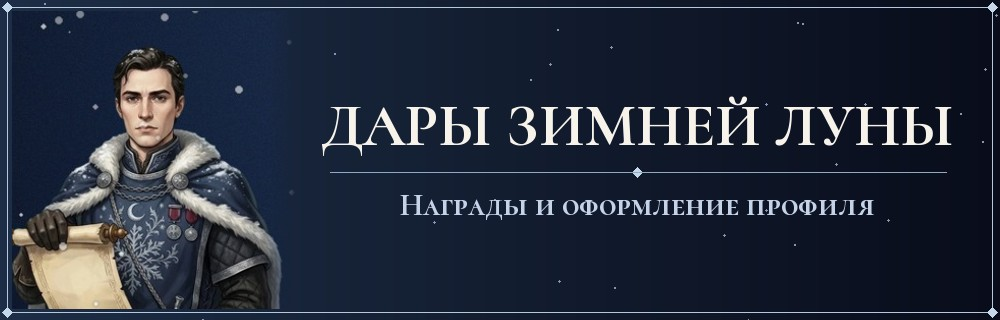
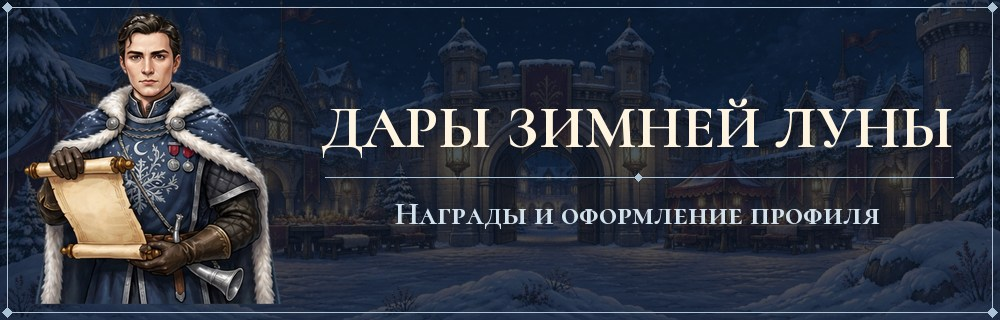
Грамота глашатая, зимние портреты и подарки Тайного Санты

diff --git a/sd/winter.py b/sd/winter.py
@@ -37,6 +37,8 @@ ACTIONS = {
     "bare": ("Снять рамку", "◯", "frame"),
     "archive": ("Летопись", "📜", "ball"),
 }
+for keepsake,(label,icon,_) in w.SANTA.items():
+    BUTTONS["wb:wrap_"+keepsake]=(label,"🎁",icon,_B)
 for action, (label, emoji, icon) in ACTIONS.items():
     BUTTONS["wb:" + action] = (
         label,
@@ -76,6 +78,7 @@ PAGES = {
     "strike": "raid",
     "counter": "raid",
     "offer": "santa",
+    **{"wrap_"+key:"santa" for key in w.SANTA},
     "buy": "shop",
     "pairday": "pair",
     "claim": "gifts",
@@ -98,6 +101,14 @@ async def show(inter, key="ball"):
     g, u = inter.guild_id, inter.user.id
     if g is None:
         return await reply(inter, "Бал проходит на сервере.", nav=False, key=None)
+    if day < w.START:
+        invitation=discord.Embed(description=(
+            "**Глашатай разворачивает грамоту с печатью Принцессы.**\n"
+            "«Знатных господ и добрых гостей зовём на Бал зимней луны. В полночь караул отворит врата: "
+            "на площади начнётся снежная осада, а в зале зажгут огни и развернут ярмарку даров».\n\n"
+            "**Открытие — 15 декабря в 00:00 по Москве.**"),color=0xC8AB71)
+        return await reply(inter,embed=invitation,image=("invitation.jpg",str(ART/"invitation.jpg")),
+                           rows=[["menu"]],nav=False,key=None)
     key, _, stamp = key.partition("@")
     if key in ("raid","strike","counter") and idx is not None:
         key = "siege"
@@ -117,6 +128,8 @@ async def show(inter, key="ball"):
             )
         )[0]
         gift = await w.rows(db, "SELECT recipient FROM winter26_gifts WHERE g=? AND u=?", (g, u))
+        wrapped = await w.first(db,"SELECT keepsake FROM winter26_parcels WHERE g=? AND u=?",(g,u),"")
+        received = await w.first(db,"SELECT item FROM snow_items WHERE g=? AND u=? AND item IN ('santa_rose','santa_chime','santa_book')",(g,u),"")
         mar = await w.rows(db, "SELECT a,b,since FROM marriages WHERE guild_id=? AND (a=? OR b=?)", (g, u, u))
         pairdays = await w.pair_days(db, g, *mar[0]) if mar else 0
         played = await w.first(
@@ -177,21 +190,21 @@ async def show(inter, key="ball"):
             if idx is not None:
                 actions[0].insert(0, "raid")
     elif page == "santa":
-        lines = [
-            "До 1 января оставь под ёлкой **500 монет и 50 снежинок**. Каждый даритель получит такой же подарок от случайного другого участника. Если участник один, всё вернётся на его счёт.",
-            f"Твои снежинки · **{flakes}**",
-        ]
-        if gift:
-            receiver = gift[0][0]
-            lines.append(
-                "🎁 Подарок под ёлкой."
-                if receiver is None
-                else "🎁 Твой взнос вернулся на счёт."
-                if receiver == u
-                else "🎁 Обмен завершён. Монеты и снежинки зачислены."
-            )
-        if idx is not None and day < w.REVEAL and not gift:
-            actions = [["offer"]]
+        if day < w.REVEAL:
+            lines = ["Выбери, что подарить незнакомцу при дворе. Камеристка вложит в посылку пожелание и скроет имя дарителя.",
+                     "1 января каждый даритель получит выбранный для него коллекционный значок. Его можно выставить в профиле. Участие бесплатное."]
+            for item,(name,_,wish) in w.SANTA.items():
+                lines.append(f"**{name}** — «{wish}»")
+            if gift:
+                lines.append(f"Под ёлкой лежит **{w.SANTA.get(wrapped,w.SANTA['book'])[0]}**. До полуночи 1 января выбор можно изменить.")
+            actions=[["wb:wrap_"+item for item in w.SANTA]]
+        elif received:
+            name,_,wish=w.SANTA[received.removeprefix("santa_")]
+            lines=["**Тебе пришла посылка от "+("Принцессы" if gift and gift[0][0]==u else "Тайного Санты")+"!**",
+                   f"Внутри — **{name}**. В записке написано: «{wish}»", "Значок уже в коллекции. Выбери его на витрине профиля."]
+            actions=[["showcase"]]
+        else:
+            lines=["Камеристка вручила новогодние посылки. Запись на обмен закончилась 1 января."]
     elif page == "game":
         if idx is None:
             lines = ["Дух Метели принимает гостей с 15 декабря по 10 января."]

diff --git a/sd/winter_state.py b/sd/winter_state.py
@@ -46,7 +46,13 @@ CREATE TABLE IF NOT EXISTS winter26_gifts (g INTEGER,u INTEGER,recipient INTEGER
 """
 
 
+SANTA = {
+    "rose": ("Роза под снегом", "rose", "Пусть даже в стужу рядом будет тот, кто согреет."),
+    "chime": ("Бубенец бала", "quest_reminder", "Пусть новый год принесёт вести, от которых хочется танцевать."),
+    "book": ("Книга пожеланий", "quest_book", "Пусть самая смелая мечта найдёт место в твоей летописи."),
+}
 SCHEMA += """
+CREATE TABLE IF NOT EXISTS winter26_parcels (g INTEGER,u INTEGER,keepsake TEXT NOT NULL,prepaid INTEGER NOT NULL,PRIMARY KEY(g,u));
 CREATE TABLE IF NOT EXISTS snow_baskets(g INTEGER,u INTEGER,day TEXT,used INTEGER DEFAULT 0,last_target INTEGER DEFAULT -1,PRIMARY KEY(g,u,day));
 CREATE TABLE IF NOT EXISTS snow_forts(g INTEGER,boss INTEGER,hits INTEGER DEFAULT 0,shooter INTEGER DEFAULT 0,mirrors INTEGER DEFAULT 0,volley INTEGER DEFAULT 0,PRIMARY KEY(g,boss));
 CREATE TABLE IF NOT EXISTS snow_items(g INTEGER,u INTEGER,item TEXT,PRIMARY KEY(g,u,item));
@@ -139,8 +145,15 @@ async def settle(db, g, day):
     for i, sender in enumerate(entrants):
         receiver = entrants[(i + 1) % len(entrants)]
         await db.execute("UPDATE winter26_gifts SET recipient=? WHERE g=? AND u=?", (receiver, g, sender))
-        await coin(db, g, receiver, 500, "Тайный Санта" if sender != receiver else "Возврат подарка")
-        await db.execute("UPDATE winter26_players SET flakes=flakes+50 WHERE g=? AND u=?", (g, receiver))
+        parcel = await rows(db, "SELECT keepsake,prepaid FROM winter26_parcels WHERE g=? AND u=?", (g,sender))
+        keepsake,prepaid = parcel[0] if parcel else ("book",1)
+        if prepaid:
+            await coin(db,g,sender,500,"Возврат прежнего взноса Тайного Санты")
+            await db.execute("UPDATE winter26_players SET flakes=flakes+50 WHERE g=? AND u=?", (g,sender))
+        # При единственном госте подарок выбирает Принцесса.
+        if sender == receiver:
+            keepsake = SystemRandom().choice([key for key in SANTA if key!=keepsake])
+        await db.execute("INSERT OR IGNORE INTO snow_items VALUES(?,?,?)",(g,receiver,"santa_"+keepsake))
 
 
 async def deliver_gifts():
@@ -187,24 +200,15 @@ async def act(db, g, u, key, day):
         reward = 20 if correct else 5
         await db.execute("UPDATE winter26_players SET flakes=flakes+? WHERE g=? AND u=?", (reward, g, u))
         return ("Верно!" if correct else "Дух Метели дарит утешительный приз.") + f" +{reward} снежинок."
-    if key == "offer":
-        if day >= REVEAL:
-            return "Подарки уже открыты."
-        if await first(db, "SELECT 1 FROM winter26_gifts WHERE g=? AND u=?", (g, u)):
-            return "Твой подарок уже под ёлкой."
-        await bot.ensure_user(db, g, u)
-        enough = await first(
-            db,
-            "SELECT 1 FROM users JOIN winter26_players ON guild_id=g AND user_id=u "
-            "WHERE g=? AND u=? AND balance>=500 AND flakes>=50",
-            (g, u),
-        )
-        if not enough:
-            return "Для подарка нужно 500 монет и 50 снежинок."
-        await coin(db, g, u, -500, "Подарок под ёлку")
-        await db.execute("UPDATE winter26_players SET flakes=flakes-50 WHERE g=? AND u=?", (g, u))
-        await db.execute("INSERT INTO winter26_gifts(g,u) VALUES(?,?)", (g, u))
-        return "Камеристка спрятала твой подарок под ёлкой."
+    if key.startswith("wrap_") and key[5:] in SANTA:
+        if not START <= day < REVEAL:
+            return "Камеристка принимает посылки с 15 по 31 декабря."
+        item=key[5:]
+        existing=await first(db,"SELECT 1 FROM winter26_gifts WHERE g=? AND u=?",(g,u))
+        await db.execute("INSERT OR IGNORE INTO winter26_gifts(g,u) VALUES(?,?)",(g,u))
+        await db.execute("INSERT INTO winter26_parcels VALUES(?,?,?,?) ON CONFLICT(g,u) DO UPDATE SET keepsake=excluded.keepsake",
+                         (g,u,item,existing))
+        return f"Камеристка запечатала подарок «{SANTA[item][0]}»."
     if key == "pairday":
         mar = await rows(db, "SELECT a,b,since FROM marriages WHERE guild_id=? AND (a=? OR b=?)", (g, u, u))
         if not mar:

diff --git a/tests/test_winter.py b/tests/test_winter.py
@@ -74,7 +74,11 @@ class WinterBallTests(IsolatedAsyncioTestCase):
                 await self.db.execute("INSERT INTO users(guild_id,user_id,balance) VALUES(?,?,800)", (g, u))
                 await self.db.execute("UPDATE winter26_players SET flakes=50 WHERE g=? AND u=?", (g, u))
                 await self.db.commit()
-                await asyncio.gather(self.act(u, "offer", w.START, g), self.act(u, "offer", w.START, g))
+                # A deposit recorded by the release preceding free keepsake exchange.
+                await self.db.execute("UPDATE users SET balance=balance-500 WHERE guild_id=? AND user_id=?",(g,u))
+                await self.db.execute("UPDATE winter26_players SET flakes=0 WHERE g=? AND u=?",(g,u))
+                await self.db.execute("INSERT INTO winter26_gifts(g,u) VALUES(?,?)",(g,u))
+                await self.db.commit()
         with patch.object(w, "today", return_value=w.REVEAL):
             await asyncio.gather(w.deliver_gifts(), w.deliver_gifts())
         matches = await w.rows(self.db, "SELECT g,u,recipient FROM winter26_gifts", ())
@@ -226,3 +230,25 @@ class WinterBallTests(IsolatedAsyncioTestCase):
             result = await snow.duel(db, 1, 22, latest=True)
             self.assertEqual((result[3], result[7], result[8]), ("done", 3, 0))
             self.assertIsNone(await snow.duel(db, 1, 11))
+
+    async def test_free_secret_santa_and_sealed_invitation(self):
+        from unittest.mock import AsyncMock
+        inter=SimpleNamespace(guild_id=1,user=SimpleNamespace(id=12))
+        with patch.object(w,"today",return_value=w.START-timedelta(days=1)), patch.object(winter,"reply",new_callable=AsyncMock) as send:
+            for key in ("ball","store","pack","wrap_book","aim0@old","unwrap"):
+                await winter.show(inter,key)
+                self.assertEqual(send.await_args.kwargs["rows"],[["menu"]])
+            self.assertEqual(await w.first(self.db,"SELECT count(*) FROM winter26_players",()),0)
+        await self.act(1,"wrap_book",w.START)
+        await self.act(1,"wrap_rose",w.START)
+        await self.act(2,"wrap_chime",w.START)
+        await self.act(3,"wrap_book",w.START,2)
+        with patch.object(w,"today",return_value=w.REVEAL):
+            await asyncio.gather(w.deliver_gifts(),w.deliver_gifts())
+        self.assertEqual(await w.rows(self.db,"SELECT u,item FROM snow_items WHERE g=1 ORDER BY u",()),[(1,"santa_chime"),(2,"santa_rose")])
+        solo=await w.first(self.db,"SELECT item FROM snow_items WHERE g=2",())
+        self.assertIn(solo,("santa_chime","santa_rose"))
+        self.assertEqual(await w.first(self.db,"SELECT count(*) FROM coin_history",()),0)
+        self.assertEqual(await w.first(self.db,"SELECT SUM(flakes) FROM winter26_players",()),0)
+        await self.act(2,"wrap_rose",w.REVEAL)
+        self.assertEqual(await w.first(self.db,"SELECT keepsake FROM winter26_parcels WHERE g=1 AND u=2",()),"chime")

diff --git a/sd/snow_court.py b/sd/snow_court.py
@@ -14,6 +14,8 @@ from . import winter_state as w
 from .core import _B, BUTTONS, bot, btn, button_emoji, reply
 from .winter_snow import snowfall
 
+KIND_LABELS = {"frame":"Рамка аватара","skin":"Фон карточки профиля","pair":"Комплект колец для пары"}
+
 NAMES = {
     "siege": ("На осаду", "shield"),
     "pack": ("Слепить снежки", "basket"),
@@ -279,7 +281,7 @@ async def show(inter, key, stamp="", *, send=None):
             name, price, kind = s.SHOP[item]
             if item == "rings" and step == 4:
                 price = 120
-            lines.append(f"**{name}** · {price} ❄")
+            lines.append(f"**{KIND_LABELS[kind]} «{name}»** · {price} ❄")
             lines.append(
                 {
                     "frame": "Рамка для твоего аватара.",
@@ -309,17 +311,18 @@ async def show(inter, key, stamp="", *, send=None):
                     discord.SelectOption(
                         label=name,
                         value=code,
-                        description=f"{price} снежинок · примерка и покупка",
+                        description=f"{KIND_LABELS[kind]} · {price} снежинок",
                         emoji=button_emoji("wb_" + code, "❄"),
                     )
                 )
                 lines.append(
-                    f"{name} · **{price} ❄**"
+                    f"**{KIND_LABELS[kind]}** «{name}» · {price} ❄"
                     + (" · получено" if code in owned or code == "rings" and rings else "")
                 )
             rows.append(
                 [discord.ui.Select(custom_id="sd:wb:choose", placeholder="Выбрать награду", options=opts)]
             )
+            lines.append("**Фон карточки профиля** «Северная ночь» · 80 ❄")
             rows.append(["wb:buy", "wb:dress"] if idx is not None else ["wb:dress"])
     if key == "invite" and match and notice.startswith("<@"):
         _, a, b, _, turn, *_ = match

diff --git a/sd/showcase.py b/sd/showcase.py
@@ -21,7 +21,10 @@ def badge(key):
     if key == "court:event":
         return "Общее дело", "court_event_badge", "🏆"
     if category == "winter":
-        from .winter_state import SIGILS
+        from .winter_state import SIGILS,SANTA
+        if ident.startswith('santa_') and ident[6:] in SANTA:
+            label,icon,_=SANTA[ident[6:]]
+            return label,icon,'🎁'
         if ident == "snowball": return "Первый снежок", "wb_snowball", "❄"
         if ident == "princess": return "Дар Принцессы", "wb_santa", "🎁"
         if ident == "rings":
@@ -63,7 +66,7 @@ async def earned(guild_id, uid, *, db=None):
         keys.append("winter:rings")
     from .snowballs import inventory
     items=await inventory(db,guild_id,uid)
-    keys.extend("winter:"+k for k in ("snowball","princess") if k in items)
+    keys.extend("winter:"+k for k in ("snowball","princess","santa_rose","santa_chime","santa_book") if k in items)
     return keys
 
 

diff --git a/sd/winter_snow.py b/sd/winter_snow.py
@@ -35,7 +35,7 @@ def snowfall(image):
             fx = int(x - phase * travel * 0.31 + 2 * sin(phase * 2 * pi))
             if not (13 < fx < base.width - 13 and 13 < fy < 305):
                 continue
-            if (315 < fx < 966 and 75 < fy < 235) or (82 < fx < 210 and 40 < fy < 148):
+            if (315 < fx < 966 and 75 < fy < 235) or fx < 317:
                 continue
             strength = (1 - cos(phase * 2 * pi)) * 0.5
             if strength < 0.16:
